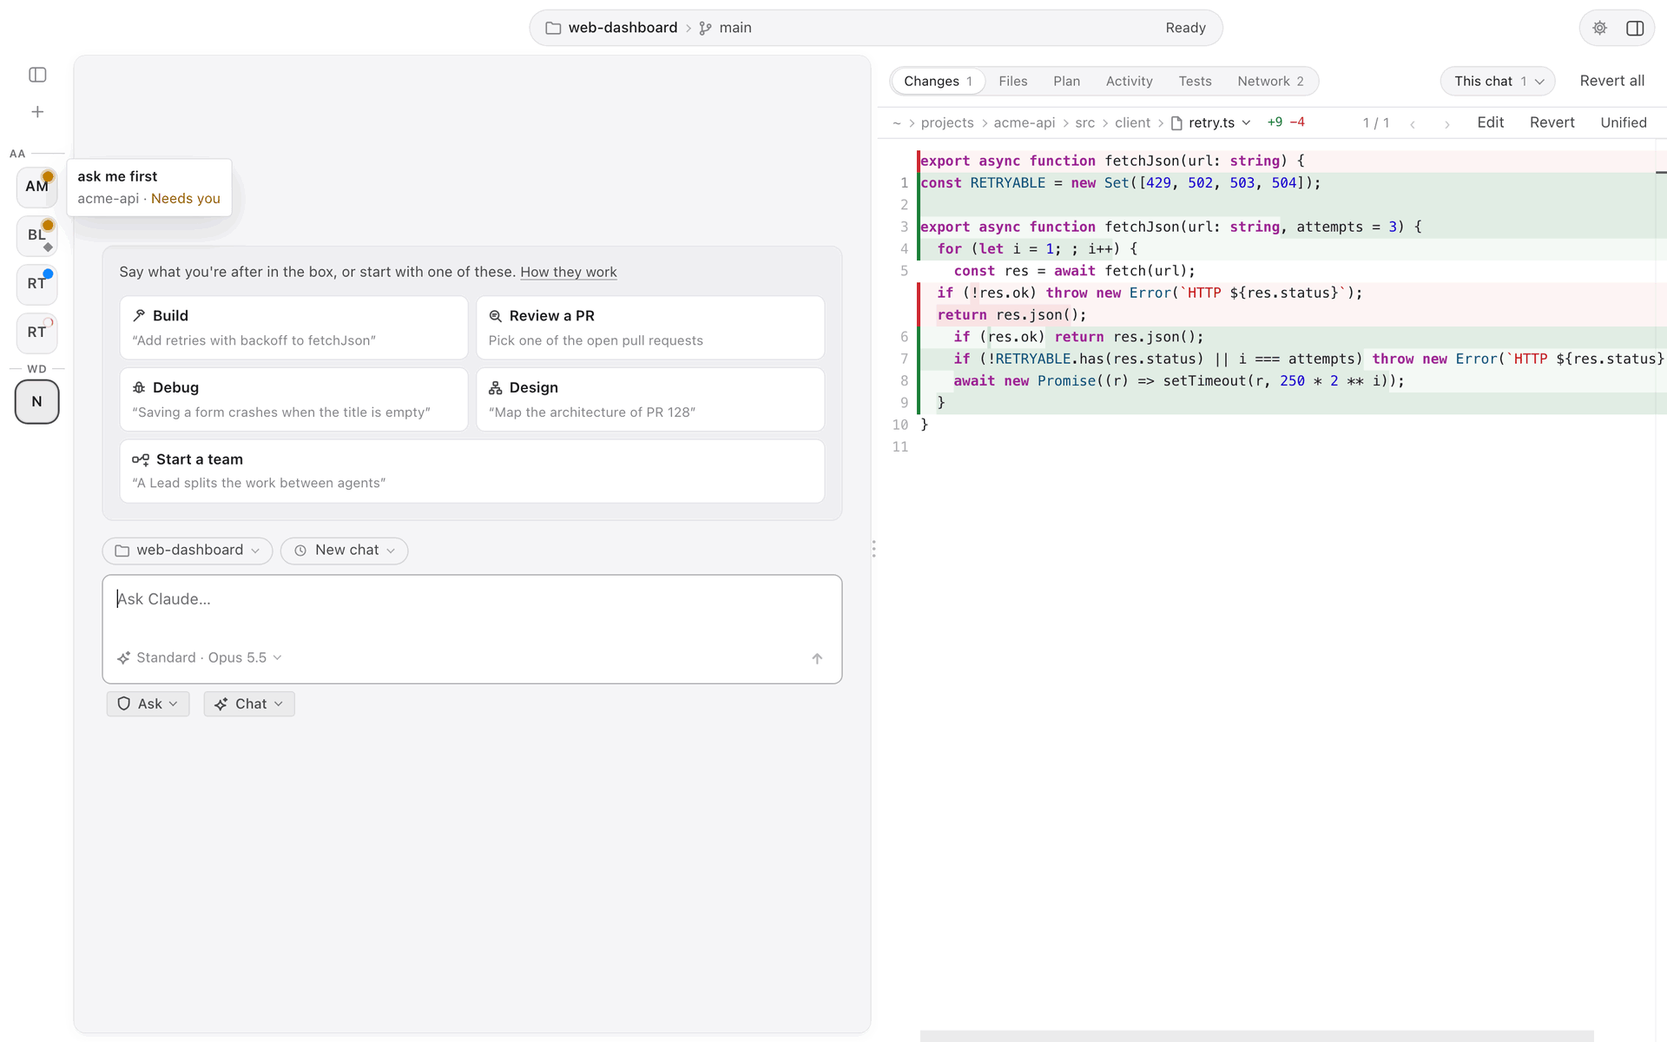
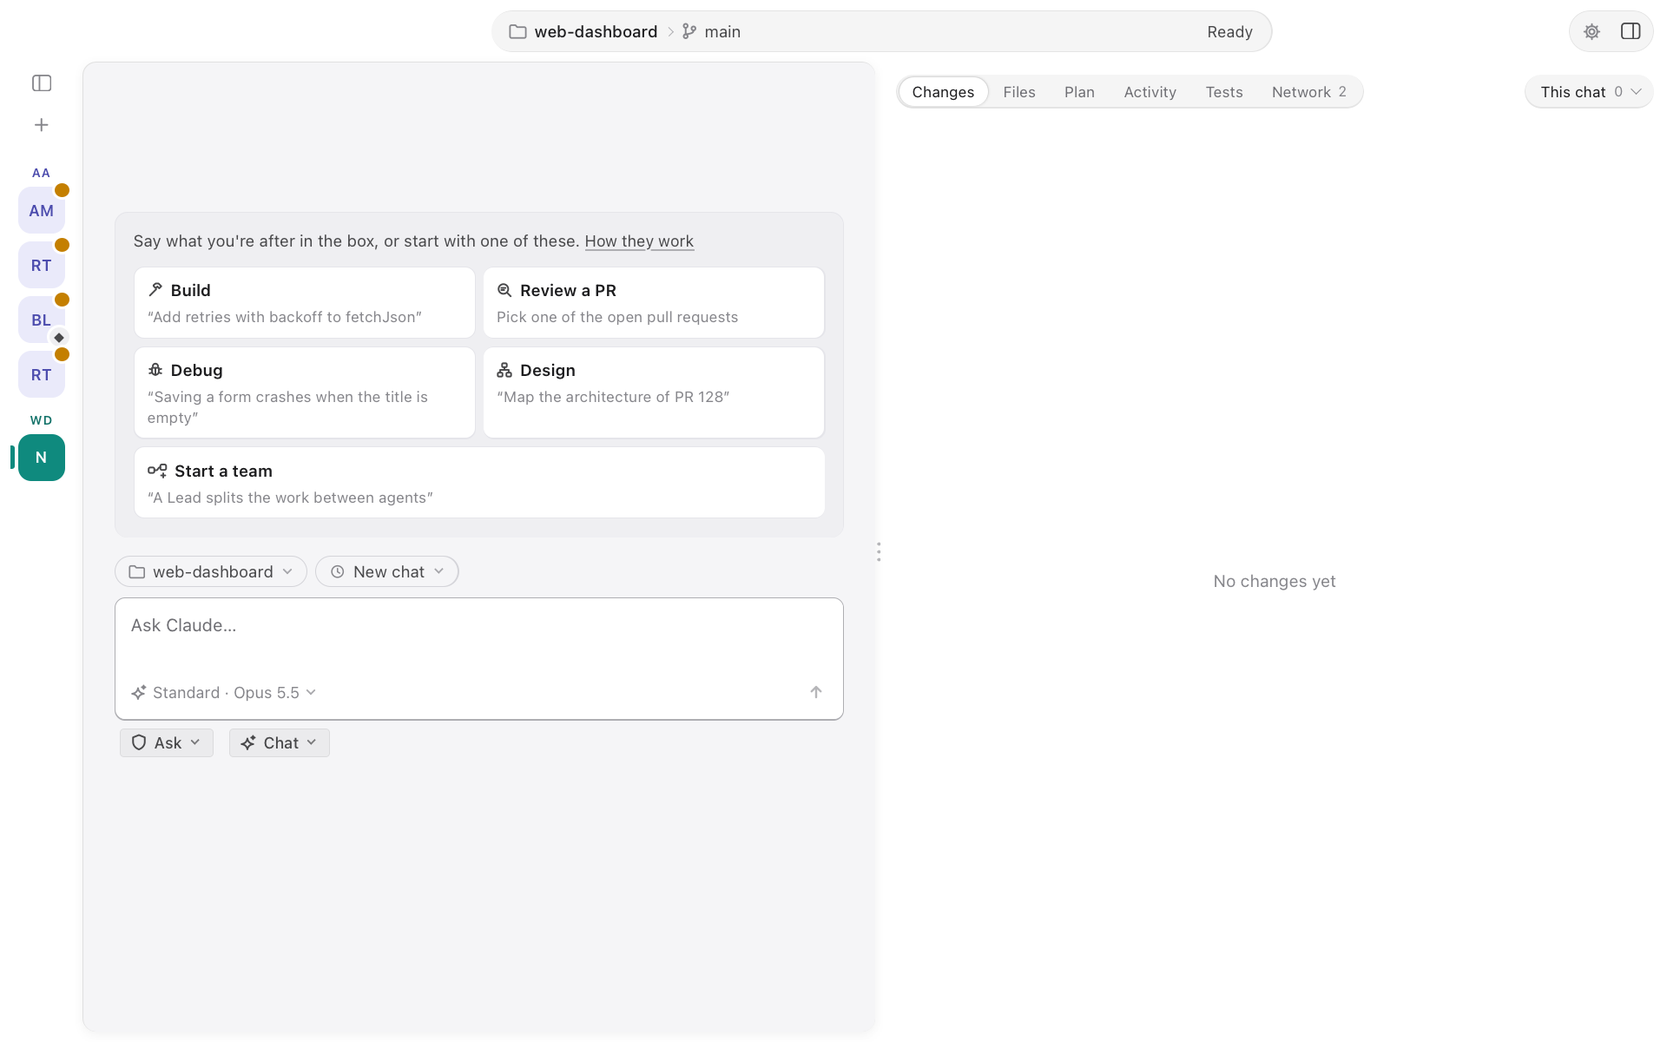
feat: the compact sidebar's squares in each project's own colour
Each project gets a colour of its own, saved (sidebar.projectColors) so it stays across restarts and follows the folder when it moves: projects open together get different colours, and a saved one never changes. Its squares are tinted with it and the chat on screen is filled with it, with a bar beside it, instead of the heavy outline. The status marks and the team's diamond sit on the corners, cut out by a ring of the column's background, so they no longer cover the initials, and the lines beside the project labels are gone.

diff --git a/src/styles.css b/src/styles.css
@@ -6,6 +6,8 @@
 */
 :root {
   --bg: #ffffff;           /* window and toolbar; the editor area is the same surface, like Xcode */
+  --pc-tint: 13%;          /* how much of a project's colour tints its compact squares, and colours their letters */
+  --pc-ink: 78%;
   --pane: #ffffff;         /* the review pane (also the diff editor background) */
   --sidebar: #f5f5f7;      /* the chat card */
   --field: #ffffff;        /* composer, menus */
@@ -61,6 +63,8 @@
 @media (prefers-color-scheme: dark) {
   :root:not([data-theme="light"]) {
     --bg: #1f1f24;         /* Xcode's Default (Dark) editor background */
+    --pc-tint: 24%;
+    --pc-ink: 45%;
     --pane: #1f1f24;
     --sidebar: #29292e;
     --field: #202025;
@@ -99,6 +103,8 @@
 }
 :root[data-theme="dark"] {
   --bg: #1f1f24;
+  --pc-tint: 24%;
+  --pc-ink: 45%;
   --pane: #1f1f24;
   --sidebar: #29292e;
   --field: #202025;
@@ -2005,22 +2011,25 @@ nav > .sb-note { padding-left: 8px; }
 .cp-head { flex: none; display: flex; flex-direction: column; align-items: center; gap: 4px; padding-bottom: 6px; }
 .cp-head button.cp-button { width: 32px; height: 28px; padding: 0; display: inline-flex; align-items: center; justify-content: center; line-height: 1; border-radius: var(--radius-chip); color: var(--muted); }
 .cp-head button.cp-button:hover:not(:disabled) { background: var(--bg-hover); color: var(--text); }
-.cp-list { flex: 1; min-height: 0; width: 100%; display: flex; flex-direction: column; align-items: center; gap: 6px; overflow-y: auto; overflow-x: hidden; padding: 4px 0; scrollbar-width: thin; scrollbar-color: var(--line-strong) transparent; }
+/* Room around the squares for the marks on their corners and the bar beside the one on screen. */
+.cp-list { flex: 1; min-height: 0; width: 100%; display: flex; flex-direction: column; align-items: center; gap: 6px; overflow-y: auto; overflow-x: hidden; padding: 6px 0; scrollbar-width: thin; scrollbar-color: var(--line-strong) transparent; }
 .cp-list::-webkit-scrollbar { width: 4px; }
 .cp-list::-webkit-scrollbar-thumb { border-radius: 2px; background: var(--line-strong); }
 .cp-group { list-style: none; margin: 0; padding: 0; display: flex; flex-direction: column; align-items: center; gap: 6px; }
-.cp-project { flex: none; width: 100%; display: flex; align-items: center; gap: 4px; margin-top: 2px; color: var(--muted-text); font-size: calc(9.5px * var(--font-scale)); font-weight: 600; letter-spacing: 0.04em; line-height: 1; }
-.cp-project::before, .cp-project::after { content: ""; flex: 1; min-width: 3px; border-top: 1px solid var(--line-strong); }
-.cp-project:first-child::before { display: none; }
-.cp-chip { position: relative; width: 36px; height: 36px; padding: 0; box-sizing: border-box; display: inline-flex; align-items: center; justify-content: center; line-height: 1; border: 0.5px solid var(--glass-line); border-radius: 10px; background: var(--glass); color: var(--text-2); font-size: calc(12.5px * var(--font-scale)); font-weight: 600; }
-.cp-chip:hover { background: var(--bg-hover); color: var(--text); }
-.cp-chip.current { background: var(--bg-active); color: var(--text); box-shadow: 0 0 0 1.5px var(--text-2); }
+/* Each project's colour (--pc, set per project) tints its label and squares; the one on screen is filled with it. */
+.cp-project { flex: none; width: 100%; display: flex; justify-content: center; margin-top: 6px; color: color-mix(in srgb, var(--pc, var(--muted)) var(--pc-ink), var(--text)); font-size: calc(9.5px * var(--font-scale)); font-weight: 600; letter-spacing: 0.06em; line-height: 1; }
+.cp-project:first-child { margin-top: 0; }
+.cp-chip { position: relative; width: 36px; height: 36px; padding: 0; box-sizing: border-box; display: inline-flex; align-items: center; justify-content: center; line-height: 1; border: none; border-radius: 10px; background: color-mix(in srgb, var(--pc, var(--muted)) var(--pc-tint), var(--bg)); color: color-mix(in srgb, var(--pc, var(--muted)) var(--pc-ink), var(--text)); font-size: calc(12px * var(--font-scale)); font-weight: 600; transition: background 0.12s, color 0.12s; }
+.cp-chip:hover { background: color-mix(in srgb, var(--pc, var(--muted)) calc(var(--pc-tint) + 9%), var(--bg)); color: var(--text); }
+.cp-chip.current { background: var(--pc, var(--accent)); color: #fff; }
+.cp-chip.current::before { content: ""; position: absolute; left: -6px; top: 50%; width: 3px; height: 18px; margin-top: -9px; border-radius: 0 2px 2px 0; background: var(--pc, var(--text)); }
 .cp-initials { display: inline-flex; align-items: center; justify-content: center; line-height: 1; letter-spacing: 0.02em; }
-.cp-team { position: absolute; right: 3px; bottom: 3px; display: inline-flex; width: 9px; height: 9px; color: var(--muted); }
-.cp-team svg { width: 9px; height: 9px; fill: currentColor; }
-.cp-mark { position: absolute; top: 3px; right: 3px; box-sizing: border-box; width: 9px; height: 9px; border-radius: 50%; }
-.cp-mark.running { border: 1.5px solid color-mix(in srgb, var(--working) 28%, transparent); border-top-color: var(--working); animation: spin 0.8s linear infinite; }
-.cp-mark.waiting { background: var(--attn); box-shadow: 0 0 0 2px color-mix(in srgb, var(--attn) 30%, transparent); }
+/* The marks sit on the corners, cut out of the square by a ring of the column's background. */
+.cp-team { position: absolute; right: -3px; bottom: -3px; display: inline-flex; align-items: center; justify-content: center; width: 15px; height: 15px; border-radius: 50%; background: var(--bg-subtle); color: var(--text-2); box-shadow: 0 0 0 2px var(--bg); }
+.cp-team svg { width: 8px; height: 8px; fill: currentColor; }
+.cp-mark { position: absolute; top: -3px; right: -3px; box-sizing: border-box; width: 11px; height: 11px; border-radius: 50%; box-shadow: 0 0 0 2px var(--bg); }
+.cp-mark.running { border: 2px solid color-mix(in srgb, var(--working) 28%, var(--bg)); border-top-color: var(--working); background: var(--bg); animation: spin 0.8s linear infinite; }
+.cp-mark.waiting { background: var(--attn); }
 .cp-mark.unread { background: var(--unread); }
 .cp-tip { position: fixed; z-index: 30; transform: translateY(-50%); max-width: 260px; padding: 6px 9px; border-radius: var(--radius-chip); background: var(--bg); box-shadow: 0 0 0 0.5px var(--line-strong), var(--shadow); pointer-events: none; font-size: calc(12px * var(--font-scale)); }
 .cp-tip-title { font-weight: 600; color: var(--text); overflow: hidden; text-overflow: ellipsis; white-space: nowrap; }

diff --git a/src/components/SidebarCompact.tsx b/src/components/SidebarCompact.tsx
@@ -1,5 +1,6 @@
-import { Fragment, useEffect, useMemo, useState, type FocusEvent, type MouseEvent, type PointerEventHandler } from "react";
+import { Fragment, useEffect, useMemo, useState, type CSSProperties, type FocusEvent, type MouseEvent, type PointerEventHandler } from "react";
 import type { RecentFolder } from "../types";
+import { PROJECT_COLORS, assignColors } from "../lib/projectColors";
 import { compactGroups, markOf, type CompactChip, type CompactGroup, type ProjectOpen } from "../lib/sidebar";
 import { PlusIcon, SidebarIcon, TeamIcon } from "./icons";
 
@@ -14,6 +15,10 @@ interface Props {
   /** A chat's square, and a team's (its canvas). */
   onChat: (slot: string) => void;
   onTeam: (slot: string) => void;
+  /** Each project's colour, an index into PROJECT_COLORS by folder (saved by the app, see assignColors). */
+  colors: Record<string, number>;
+  /** The colours with a project new to them given one, to save. */
+  onColors: (colors: Record<string, number>) => void;
   /** Its button at the top: back to the full sidebar. */
   onToggle: () => void;
   /** The pointer resting on the column opens the full sidebar over the chat (see usePeek). */
@@ -57,10 +62,12 @@ function Chip({ chip, group, onClick, onTip }: { chip: CompactChip; group: Compa
 /**
  * The compact sidebar: a slim column with a square for each open chat and team (not for projects), the chat's initials
  * on it and a mark for how it is: a ring while it works, an amber dot when it needs you, a blue dot when it finished
- * unread. The one on screen is lit; each project's squares sit under a line labelled with its initials (its name is the tooltip); + starts a chat. A team is one square, for its Lead,
- * with the team's combined state. The column scrolls when there are more squares than fit.
+ * unread. Each project has a colour of its own, kept across restarts: its squares are tinted with it, and the one on screen
+ * is filled with it and has a bar beside it. Each project's squares sit under its initials (its name is the tooltip);
+ * + starts a chat. A team is one square, for its Lead, with the team's combined state. The column scrolls when there are
+ * more squares than fit.
  */
-export function SidebarCompact({ open, loadRecent, canNew, onNewChat, onChat, onTeam, onToggle, onPointerEnter, onPointerLeave }: Props) {
+export function SidebarCompact({ open, loadRecent, canNew, onNewChat, onChat, onTeam, colors: savedColors, onColors, onToggle, onPointerEnter, onPointerLeave }: Props) {
   const [recent, setRecent] = useState<RecentFolder[]>([]);
   const [tip, setTip] = useState<Tip | null>(null);
   const openKey = Object.keys(open).sort().join("\n");
@@ -68,6 +75,10 @@ export function SidebarCompact({ open, loadRecent, canNew, onNewChat, onChat, on
     loadRecent().then(setRecent, () => setRecent([]));
   }, [openKey]);
   const groups = useMemo(() => compactGroups(open, recent), [open, recent]);
+  const colors = assignColors(groups.map((g) => g.folder), savedColors);
+  useEffect(() => {
+    if (colors !== savedColors) onColors(colors);
+  }, [colors, savedColors]);
 
   const showTip = (next: Tip | null, target?: HTMLElement) => {
     if (!next || !target) return setTip(null);
@@ -88,10 +99,10 @@ export function SidebarCompact({ open, loadRecent, canNew, onNewChat, onChat, on
       <nav className="cp-list" aria-label="Open chats" onScroll={() => setTip(null)}>
         {groups.map((group) => (
           <Fragment key={group.folder}>
-            <div className="cp-project" title={group.label} aria-hidden>
+            <div className="cp-project" title={group.label} aria-hidden style={{ "--pc": PROJECT_COLORS[colors[group.folder]] } as CSSProperties}>
               <span>{group.initials}</span>
             </div>
-            <ul className="cp-group" aria-label={group.label}>
+            <ul className="cp-group" aria-label={group.label} style={{ "--pc": PROJECT_COLORS[colors[group.folder]] } as CSSProperties}>
               {group.chips.map((chip) => (
                 <Chip key={chip.slot} chip={chip} group={group} onClick={() => (chip.team ? onTeam(chip.slot) : onChat(chip.slot))} onTip={showTip} />
               ))}

diff --git a/src/components/SidebarCompact.test.tsx b/src/components/SidebarCompact.test.tsx
@@ -1,6 +1,7 @@
 import { describe, expect, it, vi } from "vitest";
-import { fireEvent, render, screen, waitFor, within } from "@testing-library/react";
+import { act, fireEvent, render, screen, waitFor, within } from "@testing-library/react";
 import { SidebarCompact } from "./SidebarCompact";
+import { PROJECT_COLORS } from "../lib/projectColors";
 import type { ProjectOpen, SidebarChat } from "../lib/sidebar";
 
 const LANTERN = "/work/lantern";
@@ -29,14 +30,14 @@ function setup(over: Partial<React.ComponentProps<typeof SidebarCompact>> = {}) 
     { path: LANTERN, updated_ms: 2 },
     { path: MONITOR, updated_ms: 1 },
   ]);
-  render(<SidebarCompact open={open} loadRecent={loadRecent} canNew {...h} {...over} />);
+  render(<SidebarCompact open={open} loadRecent={loadRecent} canNew colors={{}} onColors={vi.fn()} {...h} {...over} />);
   return { h, loadRecent };
 }
 
 const chipFor = (name: RegExp) => screen.getByRole("button", { name });
 
 describe("the compact sidebar", () => {
-  it("has a square for each open chat and team, but none for an agent, with the chat's initials, and a labelled line above each project", async () => {
+  it("has a square for each open chat and team, but none for an agent, with the chat's initials, and a label above each project", async () => {
     setup();
     await waitFor(() => expect(screen.getAllByRole("list")).toHaveLength(2));
     const lantern = screen.getByRole("list", { name: "lantern" });
@@ -51,6 +52,24 @@ describe("the compact sidebar", () => {
       ["LA", "lantern"],
       ["NM", "network-monitor"],
     ]);
+  });
+
+  it("gives each project a colour of its own: a saved one stays, a new project gets one no other has, to save", async () => {
+    const onColors = vi.fn();
+    const color = (name: string) => screen.getByRole("list", { name }).style.getPropertyValue("--pc");
+    const { rerender } = render(<SidebarCompact open={open} loadRecent={vi.fn().mockResolvedValue([])} canNew colors={{ [MONITOR]: 0 }} onColors={onColors} onNewChat={vi.fn()} onChat={vi.fn()} onTeam={vi.fn()} onToggle={vi.fn()} />);
+    expect(color("network-monitor")).toBe(PROJECT_COLORS[0]);
+    expect(color("lantern")).toBe(PROJECT_COLORS[1]);
+    await waitFor(() => expect(onColors).toHaveBeenCalledWith({ [MONITOR]: 0, [LANTERN]: 1 }));
+    // Once saved (and after a restart, read back), nothing new is saved and the colours stay.
+    const saved = { [MONITOR]: 0, [LANTERN]: 1 };
+    rerender(<SidebarCompact open={open} loadRecent={vi.fn().mockResolvedValue([])} canNew colors={saved} onColors={onColors} onNewChat={vi.fn()} onChat={vi.fn()} onTeam={vi.fn()} onToggle={vi.fn()} />);
+    await act(async () => {});
+    onColors.mockClear();
+    rerender(<SidebarCompact open={open} loadRecent={vi.fn().mockResolvedValue([])} canNew colors={saved} onColors={onColors} onNewChat={vi.fn()} onChat={vi.fn()} onTeam={vi.fn()} onToggle={vi.fn()} />);
+    await act(async () => {});
+    expect(color("lantern")).toBe(PROJECT_COLORS[1]);
+    expect(onColors).not.toHaveBeenCalled();
   });
 
   it("marks what works, what needs you and what finished unread; a plain finished chat has no mark", async () => {

diff --git a/src/lib/projectColors.ts b/src/lib/projectColors.ts
@@ -1,0 +1,32 @@
+/**
+ * Each project's colour in the compact sidebar. Picked to stay clear of the status colours (Claude's orange while it
+ * works, amber when it needs you, blue when it finished unread), and readable as a tint and as a fill in both themes.
+ */
+export const PROJECT_COLORS = ["#5b5bd6", "#0f8a7e", "#c2255c", "#2b8a3e", "#9c36b5", "#0b7285", "#8d6e63", "#5c6b7a"];
+
+const valid = (index: number | undefined): index is number => Number.isInteger(index) && index! >= 0 && index! < PROJECT_COLORS.length;
+
+/**
+ * The saved colours (folder → index into PROJECT_COLORS) with each folder in view given one. A new folder gets the
+ * colour fewest of the projects in view have, then the one fewest saved projects have, then the first in the list, so
+ * the projects on screen differ until there are more of them than colours. A saved colour never changes. Returns `saved`
+ * itself when nothing was added.
+ */
+export function assignColors(folders: string[], saved: Record<string, number>): Record<string, number> {
+  const fresh = folders.filter((f) => !valid(saved[f]));
+  if (fresh.length === 0) return saved;
+  const next: Record<string, number> = {};
+  for (const [folder, index] of Object.entries(saved)) if (valid(index)) next[folder] = index;
+  const inView = PROJECT_COLORS.map(() => 0);
+  const overall = PROJECT_COLORS.map(() => 0);
+  for (const f of folders) if (f in next) inView[next[f]]++;
+  for (const index of Object.values(next)) overall[index]++;
+  for (const folder of fresh) {
+    let pick = 0;
+    for (let i = 1; i < PROJECT_COLORS.length; i++) if (inView[i] < inView[pick] || (inView[i] === inView[pick] && overall[i] < overall[pick])) pick = i;
+    next[folder] = pick;
+    inView[pick]++;
+    overall[pick]++;
+  }
+  return next;
+}

diff --git a/src/App.tsx b/src/App.tsx
@@ -1504,6 +1504,8 @@ export default function App() {
     if (collapsed) setCollapsedBy(collapsed);
     const pinned = take<Record<string, string[]>>("settings.pinnedSessions");
     if (pinned) setPinnedBy(pinned);
+    const colors = take<Record<string, number>>("sidebar.projectColors");
+    if (colors) setProjectColors(colors);
     const last = take<string>(LAST_FOLDER);
     if (last) setLastFolder(last);
     if (changed[OPEN_CHATS]) setOffer((chats) => chats.map((c) => (c.folder === old ? { ...c, folder: next } : c)));
@@ -1547,6 +1549,7 @@ export default function App() {
   // is its width. The first key is the one that once said "minimized to the rail": that is hidden now.
   const [sidebarHidden, setSidebarHidden] = usePersistentState("sidebar.collapsed", false);
   const [sidebarCompact, setSidebarCompact] = usePersistentState("sidebar.compact", false);
+  const [projectColors, setProjectColors] = usePersistentState<Record<string, number>>("sidebar.projectColors", {});
   const [sidebarWidth, setSidebarWidth] = usePersistentState("sidebar.width", SIDEBAR_DEFAULT);
   // Projects removed from the recents here (Claude Code keeps their chats; one with a chat open is listed regardless).
   const [hiddenFolders, setHiddenFolders] = usePersistentState<string[]>("sidebar.hidden", []);
@@ -1733,6 +1736,8 @@ export default function App() {
                 onNewChat={sidebarHandlers.onNewChat}
                 onChat={sidebarHandlers.onChat}
                 onTeam={sidebarHandlers.onTeam}
+                colors={projectColors}
+                onColors={setProjectColors}
                 onToggle={() => setSidebarCompact(false)}
                 onPointerEnter={(e) => !e.buttons && sidebarPeek.hover()}
                 onPointerLeave={sidebarPeek.unhover}

diff --git a/src/lib/projectColors.test.ts b/src/lib/projectColors.test.ts
@@ -1,0 +1,29 @@
+import { describe, expect, it } from "vitest";
+import { PROJECT_COLORS, assignColors } from "./projectColors";
+
+describe("project colours", () => {
+  it("gives projects in view different colours, in the list's order", () => {
+    expect(assignColors(["/a", "/b", "/c"], {})).toEqual({ "/a": 0, "/b": 1, "/c": 2 });
+  });
+
+  it("never changes a saved colour, and returns the same object when nothing is new", () => {
+    const saved = { "/a": 3, "/b": 5 };
+    expect(assignColors(["/a", "/b"], saved)).toBe(saved);
+    expect(assignColors(["/b", "/c"], saved)).toEqual({ "/a": 3, "/b": 5, "/c": 0 });
+  });
+
+  it("avoids the colours of the projects in view first, then the ones saved projects use most", () => {
+    // /a (colour 0) is saved but not in view; /b in view has 1. The new one skips 1, and prefers 2 over 0, which /a has.
+    expect(assignColors(["/b", "/c"], { "/a": 0, "/b": 1 })["/c"]).toBe(2);
+  });
+
+  it("shares colours evenly once there are more projects than colours", () => {
+    const folders = Array.from({ length: PROJECT_COLORS.length + 2 }, (_, i) => `/p${i}`);
+    const given = Object.values(assignColors(folders, {}));
+    expect(given.slice(PROJECT_COLORS.length)).toEqual([0, 1]);
+  });
+
+  it("replaces a saved colour that isn't one any more", () => {
+    expect(assignColors(["/a"], { "/a": 99 })).toEqual({ "/a": 0 });
+  });
+});

diff --git a/src/lib/relocate.test.ts b/src/lib/relocate.test.ts
@@ -29,6 +29,7 @@ describe("migrateFolderState", () => {
       "settings.harnessByFolder": { [OLD]: "max" },
       "review.collapsedByFolder": { [OLD]: true },
       "settings.pinnedSessions": { [OLD]: ["s1"] },
+      "sidebar.projectColors": { [OLD]: 3 },
     });
     const changed = migrateFolderState(store, OLD, NEXT);
     expect(Object.keys(changed).sort()).toEqual([...FOLDER_RECORDS].sort());
@@ -39,6 +40,7 @@ describe("migrateFolderState", () => {
     expect(read(store, "settings.harnessByFolder")).toEqual({ [OLD]: "max", [NEXT]: "max" });
     expect(read(store, "review.collapsedByFolder")).toEqual({ [OLD]: true, [NEXT]: true });
     expect(read(store, "settings.pinnedSessions")).toEqual({ [OLD]: ["s1"], [NEXT]: ["s1"] });
+    expect(read(store, "sidebar.projectColors")).toEqual({ [OLD]: 3, [NEXT]: 3 });
     // What was returned is what was written.
     expect(changed["settings.permissionsByFolder"]).toEqual(read(store, "settings.permissionsByFolder"));
   });

diff --git a/src/lib/relocate.ts b/src/lib/relocate.ts
@@ -10,6 +10,8 @@ export const FOLDER_RECORDS = [
   "settings.harnessByFolder",
   "review.collapsedByFolder",
   "settings.pinnedSessions",
+  // The project's colour in the compact sidebar.
+  "sidebar.projectColors",
 ] as const;
 
 /** The folder that was open last, reopened at launch. */

diff --git a/docs/FEATURES.md b/docs/FEATURES.md
@@ -193,12 +193,13 @@ The sidebar has three states: **Full** (above), **Compact** and **Hidden**.
 
 **Compact** is the button at the top-right of the sidebar (View ▸ Compact sidebar, or Compact sidebar in the command palette). It becomes a slim column with a small square for each open chat and team, not for each project:
 
-- A square carries the initials of its chat's title (a new chat is N) and a mark: a spinning ring while it works, an amber dot when it needs you, a blue dot when it finished while you were away. The chat on screen is outlined. A team is one square (its Lead, with a small diamond) that shows the team's combined state, and an agent has no square of its own.
+- A square carries the initials of its chat's title (a new chat is N) and a mark on its corner: a spinning ring while it works, an amber dot when it needs you, a blue dot when it finished while you were away. A team is one square (its Lead, with a small diamond badge) that shows the team's combined state, and an agent has no square of its own.
+- Each project has a colour of its own, kept across restarts (and when its folder moves): its squares are tinted with it, and the chat on screen is filled with it, with a bar beside it. Projects open together get different colours.
 - Hover a square for its title, project and status. Click it to switch to that chat, or to open a team's canvas.
-- Each project's squares sit under a thin line labelled with the project's initials (hover it for the full name), and **+** at the top starts a chat. When there are more squares than fit, the column scrolls.
+- Each project's squares sit under the project's initials, in its colour (hover them for the full name), and **+** at the top starts a chat. When there are more squares than fit, the column scrolls.
 - The button at the top of the column (the same one) brings back the full sidebar.
 
-![The compact sidebar: a chat that works, two that need you (one a team), one finished unread, and a second project below its own label](images/sidebar-compact.png)
+![The compact sidebar: four chats that need you (one a team) in one project's colour, and the chat on screen in a second project's](images/sidebar-compact.png)
 
 Rest the pointer on the compact column for a moment and the full sidebar opens over the chat. Click a chat in it to go there, and it closes again, as it does when the pointer leaves it or you press Esc. To keep it open, use its top-right button.
 
